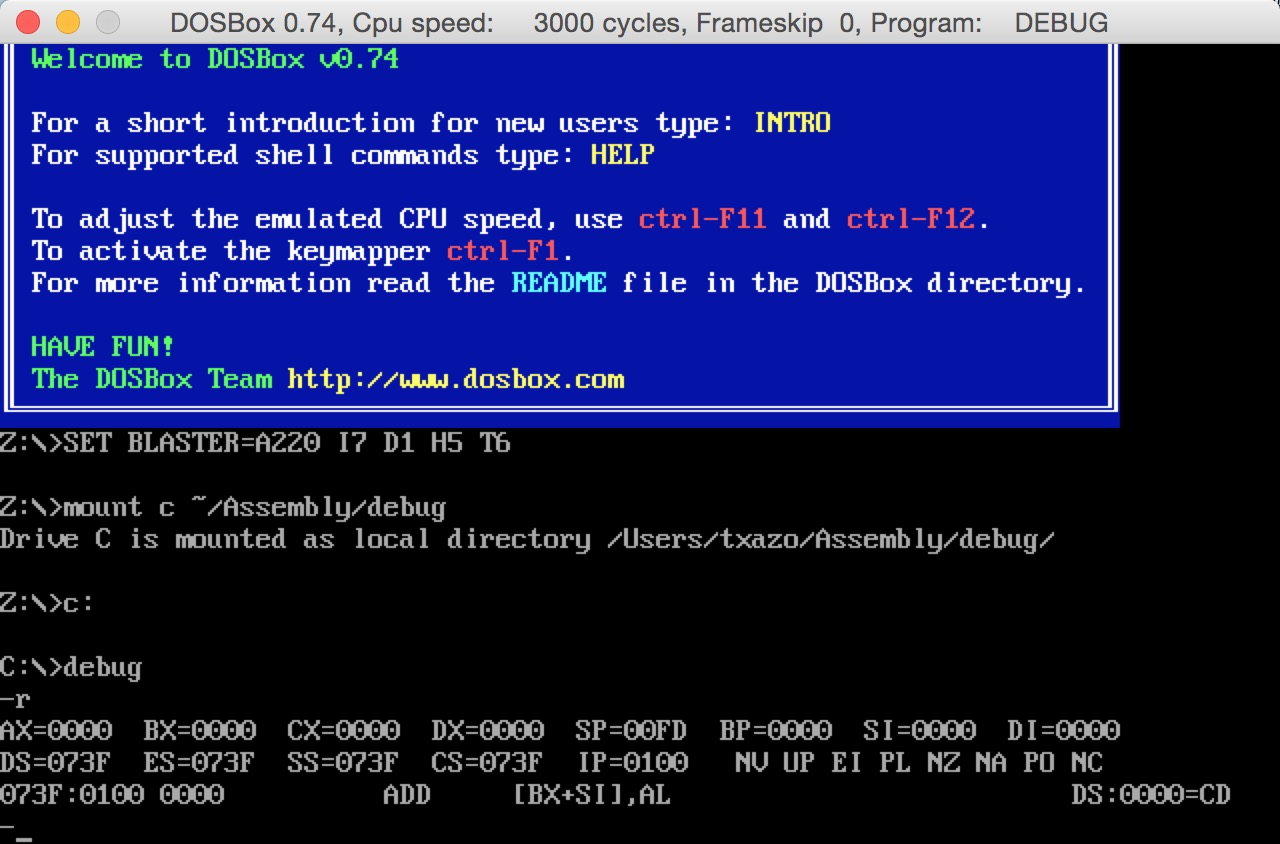
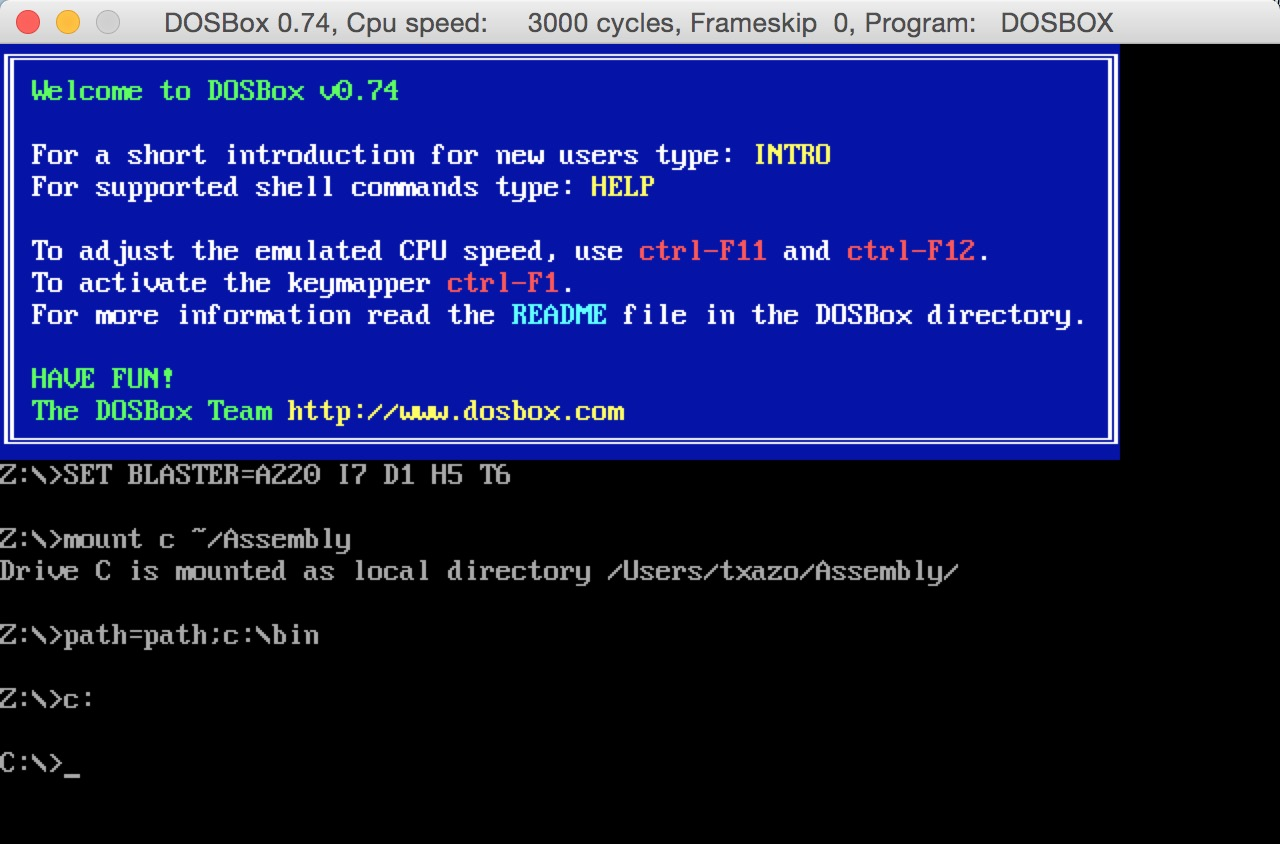
auto commit

diff --git a/js/topic.js b/js/topic.js
@@ -1,1 +1,1 @@
-var Topics = ['热点', '临时', '中间件', '项目总结', '开源框架', '性能优化', '网络', '数据库', '大数据', 'Java', 'JDK', 'HotSpot', '设计模式', '汇编', '数据结构与算法', '服务器', 'Linux', 'Mac', 'CSS', 'Ruby', 'Python', '监控', '开发工具', '品质生活'];var TopicModule = {"\u6027\u80fd\u4f18\u5316": [{"path": "/performance/async.html", "module": "\u6027\u80fd\u4f18\u5316", "title": "\u5f02\u6b65\u8c03\u4f18"}, {"path": "/performance/cache-optimization.html", "module": "\u6027\u80fd\u4f18\u5316", "title": "\u7f13\u5b58\u4f18\u5316"}, {"path": "/performance/database.html", "module": "\u6027\u80fd\u4f18\u5316", "title": "\u6570\u636e\u5e93\u8c03\u4f18"}, {"path": "/performance/reactor.html", "module": "\u6027\u80fd\u4f18\u5316", "title": "Reactor\u6a21\u5f0f"}], "\u670d\u52a1\u5668": [{"path": "/server/nginx-load-balance.html", "module": "\u670d\u52a1\u5668", "title": "Nginx\u8d1f\u8f7d\u5747\u8861"}, {"path": "/server/nginx-real-ip.html", "module": "\u670d\u52a1\u5668", "title": "Nginx\u771f\u5b9eIP"}, {"path": "/server/nginx.html", "module": "\u670d\u52a1\u5668", "title": "Nginx"}, {"path": "/server/tomcat.html", "module": "\u670d\u52a1\u5668", "title": "Tomcat"}], "Java": [{"path": "/java/annotation.html", "module": "Java", "title": "\u6ce8\u89e3"}, {"path": "/java/aop.html", "module": "Java", "title": "AOP"}, {"path": "/java/collection/list.html", "module": "Java", "title": "List"}, {"path": "/java/collection/map.html", "module": "Java", "title": "Map"}, {"path": "/java/collection/queue.html", "module": "Java", "title": "Queue"}, {"path": "/java/collection/set.html", "module": "Java", "title": "Set"}, {"path": "/java/collection.html", "module": "Java", "title": "\u96c6\u5408"}, {"path": "/java/concurrent/atomic.html", "module": "Java", "title": "\u539f\u5b50\u64cd\u4f5c"}, {"path": "/java/concurrent/future-callable.html", "module": "Java", "title": "Future/Callable"}, {"path": "/java/concurrent/thread-pool.html", "module": "Java", "title": "\u7ebf\u7a0b\u6c60"}, {"path": "/java/concurrent/volatile.html", "module": "Java", "title": "Volatile"}, {"path": "/java/concurrent.html", "module": "Java", "title": "\u5e76\u53d1\u7f16\u7a0b"}, {"path": "/java/dynamic-proxy.html", "module": "Java", "title": "\u52a8\u6001\u4ee3\u7406"}, {"path": "/java/gzip.html", "module": "Java", "title": "GZIP"}, {"path": "/java/hot-deployment.html", "module": "Java", "title": "\u70ed\u90e8\u7f72"}, {"path": "/java/io.html", "module": "Java", "title": "IO"}, {"path": "/java/java-feature.html", "module": "Java", "title": "Java\u7279\u6027"}, {"path": "/java/java-web.html", "module": "Java", "title": "Java Web"}, {"path": "/java/java.html", "module": "Java", "title": "Java"}, {"path": "/java/javac.html", "module": "Java", "title": "javac\u7f16\u8bd1\u5668"}, {"path": "/java/javaweb/cookie-session.html", "module": "Java", "title": "Cookie/Session"}, {"path": "/java/javaweb/encoding.html", "module": "Java", "title": "\u7f16\u7801"}, {"path": "/java/javaweb/filter.html", "module": "Java", "title": "Filter"}, {"path": "/java/javaweb/jsp.html", "module": "Java", "title": "JSP"}, {"path": "/java/javaweb/listener.html", "module": "Java", "title": "Listener"}, {"path": "/java/javaweb/servlet.html", "module": "Java", "title": "Servlet"}, {"path": "/java/memory-model.html", "module": "Java", "title": "Java\u5185\u5b58\u6a21\u578b"}, {"path": "/java/network.html", "module": "Java", "title": "\u7f51\u7edc\u7f16\u7a0b"}, {"path": "/java/reflection.html", "module": "Java", "title": "\u53cd\u5c04"}, {"path": "/java/sugar.html", "module": "Java", "title": "\u8bed\u6cd5\u7cd6"}, {"path": "/java/synchronized.html", "module": "Java", "title": "synchronized"}, {"path": "/java/thread/join.html", "module": "Java", "title": "Join"}, {"path": "/java/thread/sleep.html", "module": "Java", "title": "Sleep"}, {"path": "/java/thread/thread.html", "module": "Java", "title": "Thread"}, {"path": "/java/thread/threadlocal.html", "module": "Java", "title": "ThreadLocal"}, {"path": "/java/thread/wait-notify.html", "module": "Java", "title": "Wait/Notify"}, {"path": "/java/thread/yield.html", "module": "Java", "title": "Yield"}, {"path": "/java/thread.html", "module": "Java", "title": "\u591a\u7ebf\u7a0b"}], "JDK": [{"path": "/jdk/attach-api.html", "module": "JDK", "title": "Attach API"}, {"path": "/jdk/jar.html", "module": "JDK", "title": "jar"}, {"path": "/jdk/javap.html", "module": "JDK", "title": "javap"}, {"path": "/jdk/jcmd.html", "module": "JDK", "title": "jcmd"}, {"path": "/jdk/jconsole.html", "module": "JDK", "title": "jconsole"}, {"path": "/jdk/jdb.html", "module": "JDK", "title": "jdb"}, {"path": "/jdk/jhat.html", "module": "JDK", "title": "jhat"}, {"path": "/jdk/jinfo.html", "module": "JDK", "title": "jinfo"}, {"path": "/jdk/jmap.html", "module": "JDK", "title": "jmap"}, {"path": "/jdk/jmx.html", "module": "JDK", "title": "JMX"}, {"path": "/jdk/jps.html", "module": "JDK", "title": "jps"}, {"path": "/jdk/jstack.html", "module": "JDK", "title": "jstack"}, {"path": "/jdk/jstat.html", "module": "JDK", "title": "jstat"}, {"path": "/jdk/jvisualvm.html", "module": "JDK", "title": "jvisualvm"}, {"path": "/jdk/monitor-manage.html", "module": "JDK", "title": "\u76d1\u63a7\u548c\u7ba1\u7406"}], "\u9879\u76ee\u603b\u7ed3": [{"path": "/project/api-test-tool.html", "module": "\u9879\u76ee\u603b\u7ed3", "title": "\u63a5\u53e3\u6d4b\u8bd5\u5de5\u5177"}, {"path": "/project/app-mock.html", "module": "\u9879\u76ee\u603b\u7ed3", "title": "AppMock"}, {"path": "/project/channel-apk-update.html", "module": "\u9879\u76ee\u603b\u7ed3", "title": "Android\u6e20\u9053\u5305\u66f4\u65b0"}, {"path": "/project/mobile-operating-platform.html", "module": "\u9879\u76ee\u603b\u7ed3", "title": "\u79fb\u52a8\u8fd0\u8425\u5e73\u53f0"}, {"path": "/project/uni-order-center.html", "module": "\u9879\u76ee\u603b\u7ed3", "title": "\u7edf\u4e00\u8ba2\u5355\u4e2d\u5fc3"}], "\u5927\u6570\u636e": [{"path": "/bigdata/hadoop-setup.html", "module": "\u5927\u6570\u636e", "title": "Hadoop\u5b89\u88c5"}], "\u76d1\u63a7": [{"path": "/monitor/cpu.html", "module": "\u76d1\u63a7", "title": "cpu"}, {"path": "/monitor/disk-io.html", "module": "\u76d1\u63a7", "title": "\u78c1\u76d8IO"}, {"path": "/monitor/memory.html", "module": "\u76d1\u63a7", "title": "\u5185\u5b58"}, {"path": "/monitor/network-io.html", "module": "\u76d1\u63a7", "title": "\u7f51\u7edcIO"}], "\u54c1\u8d28\u751f\u6d3b": [{"path": "/life/backpack.html", "module": "\u54c1\u8d28\u751f\u6d3b", "title": "\u80cc\u5305"}, {"path": "/life/knowledge-point.html", "module": "\u54c1\u8d28\u751f\u6d3b", "title": "\u77e5\u8bc6\u70b9"}], "Python": [{"path": "/python/dict.html", "module": "Python", "title": "\u5b57\u5178"}, {"path": "/python/file.html", "module": "Python", "title": "\u6587\u4ef6"}, {"path": "/python/list.html", "module": "Python", "title": "\u5217\u8868"}, {"path": "/python/pip-module-problem.html", "module": "Python", "title": "\u6a21\u5757\u5b89\u88c5\u95ee\u9898"}, {"path": "/python/tuple.html", "module": "Python", "title": "\u5143\u7ec4"}], "\u70ed\u70b9": [{"path": "/top/document.html", "module": "\u70ed\u70b9", "title": "\u6587\u6863\u8d44\u6599"}], "HotSpot": [{"path": "/hotspot/assembly.html", "module": "HotSpot", "title": "\u6c47\u7f16"}, {"path": "/hotspot/class-load.html", "module": "HotSpot", "title": "\u7c7b\u52a0\u8f7d"}, {"path": "/hotspot/field.html", "module": "HotSpot", "title": "\u5b57\u6bb5"}, {"path": "/hotspot/hsdb.html", "module": "HotSpot", "title": "HSDB"}, {"path": "/hotspot/jdb-debug.html", "module": "HotSpot", "title": "GDB\u8c03\u8bd5"}, {"path": "/hotspot/jvm-garbage-collector.html", "module": "HotSpot", "title": "Java\u5783\u573e\u6536\u96c6\u5668"}, {"path": "/hotspot/jvm-option.html", "module": "HotSpot", "title": "VM\u9009\u9879"}, {"path": "/hotspot/memory-allocation.html", "module": "HotSpot", "title": "\u5185\u5b58\u5206\u914d"}, {"path": "/hotspot/memory-management.html", "module": "HotSpot", "title": "\u81ea\u52a8\u5185\u5b58\u7ba1\u7406"}, {"path": "/hotspot/oopklass.html", "module": "HotSpot", "title": "Oop/Klass"}, {"path": "/hotspot/program-counter.html", "module": "HotSpot", "title": "\u7a0b\u5e8f\u8ba1\u6570\u5668"}, {"path": "/hotspot/sa.html", "module": "HotSpot", "title": "SA"}], "Mac": [{"path": "/mac/common.html", "module": "Mac", "title": "\u5e38\u89c1\u95ee\u9898"}, {"path": "/mac/sudo.html", "module": "Mac", "title": "sudo\u514d\u5bc6"}, {"path": "/mac/wifi.html", "module": "Mac", "title": "Mac\u4e0b\u7834\u89e3wifi\u5bc6\u7801"}], "\u5f00\u6e90\u6846\u67b6": [{"path": "/opensourceframework/httpclient.html", "module": "\u5f00\u6e90\u6846\u67b6", "title": "HttpClient"}, {"path": "/opensourceframework/netty-server-bootstrap.html", "module": "\u5f00\u6e90\u6846\u67b6", "title": "Netty\u670d\u52a1\u7aef\u542f\u52a8"}, {"path": "/opensourceframework/netty.html", "module": "\u5f00\u6e90\u6846\u67b6", "title": "Netty"}, {"path": "/opensourceframework/spring-inject.html", "module": "\u5f00\u6e90\u6846\u67b6", "title": "Spring\u6ce8\u5165"}, {"path": "/opensourceframework/spring-redis-pub-sub.html", "module": "\u5f00\u6e90\u6846\u67b6", "title": "Spring-Redis\u53d1\u5e03\u8ba2\u9605"}, {"path": "/opensourceframework/spring-websocket.html", "module": "\u5f00\u6e90\u6846\u67b6", "title": "Spring-WebSocket"}, {"path": "/opensourceframework/spring.html", "module": "\u5f00\u6e90\u6846\u67b6", "title": "Spring"}], "\u7f51\u7edc": [{"path": "/network/arp.html", "module": "\u7f51\u7edc", "title": "ARP"}, {"path": "/network/cdn.html", "module": "\u7f51\u7edc", "title": "CDN"}, {"path": "/network/client-server.html", "module": "\u7f51\u7edc", "title": "Client/Server"}, {"path": "/network/dns.html", "module": "\u7f51\u7edc", "title": "DNS"}, {"path": "/network/http-proxy.html", "module": "\u7f51\u7edc", "title": "Http\u4ee3\u7406"}, {"path": "/network/http.html", "module": "\u7f51\u7edc", "title": "HTTP"}, {"path": "/network/https.html", "module": "\u7f51\u7edc", "title": "HTTPS"}, {"path": "/network/ip.html", "module": "\u7f51\u7edc", "title": "IP"}, {"path": "/network/push.html", "module": "\u7f51\u7edc", "title": "\u5b9e\u65f6\u63a8\u9001"}, {"path": "/network/socks-proxy.html", "module": "\u7f51\u7edc", "title": "Socks\u4ee3\u7406"}, {"path": "/network/tcp.html", "module": "\u7f51\u7edc", "title": "TCP"}, {"path": "/network/vpn.html", "module": "\u7f51\u7edc", "title": "VPN"}, {"path": "/network/vrrp.html", "module": "\u7f51\u7edc", "title": "VRRP"}, {"path": "/network/websocket.html", "module": "\u7f51\u7edc", "title": "WebSocket"}], "Ruby": [{"path": "/ruby/array.html", "module": "Ruby", "title": "\u6570\u7ec4"}, {"path": "/ruby/hash.html", "module": "Ruby", "title": "\u54c8\u5e0c"}], "\u6c47\u7f16": [{"path": "/assembly/mac-env.html", "module": "\u6c47\u7f16", "title": "Mac\u4e0b\u642d\u5efa\u6c47\u7f16\u73af\u5883"}], "\u4e34\u65f6": [{"path": "/temporary/summary.html", "module": "\u4e34\u65f6", "title": "\u603b\u7ed3"}], "\u8bbe\u8ba1\u6a21\u5f0f": [{"path": "/designpattern/chain.html", "module": "\u8bbe\u8ba1\u6a21\u5f0f", "title": "\u804c\u8d23\u94fe\u6a21\u5f0f"}], "\u6570\u636e\u7ed3\u6784\u4e0e\u7b97\u6cd5": [{"path": "/dataalgorithm/insert-sort.html", "module": "\u6570\u636e\u7ed3\u6784\u4e0e\u7b97\u6cd5", "title": "\u63d2\u5165\u6392\u5e8f"}, {"path": "/dataalgorithm/sort.html", "module": "\u6570\u636e\u7ed3\u6784\u4e0e\u7b97\u6cd5", "title": "\u6392\u5e8f"}], "CSS": [{"path": "/css/common-problem.html", "module": "CSS", "title": "\u5e38\u89c1\u95ee\u9898"}], "\u591a\u7ebf\u7a0b": [{"path": "/java/thread/interrupt.html", "module": "\u591a\u7ebf\u7a0b", "title": "\u7ebf\u7a0b\u4e2d\u65ad"}], "\u4e2d\u95f4\u4ef6": [{"path": "/middleware/configuration.html", "module": "\u4e2d\u95f4\u4ef6", "title": "\u914d\u7f6e\u4e2d\u5fc3"}, {"path": "/middleware/database-middleware.html", "module": "\u4e2d\u95f4\u4ef6", "title": "\u6570\u636e\u5e93\u4e2d\u95f4\u4ef6"}, {"path": "/middleware/kafka.html", "module": "\u4e2d\u95f4\u4ef6", "title": "Kafka"}, {"path": "/middleware/lock.html", "module": "\u4e2d\u95f4\u4ef6", "title": "\u5206\u5e03\u5f0f\u9501"}, {"path": "/middleware/logcenter.html", "module": "\u4e2d\u95f4\u4ef6", "title": "\u65e5\u5fd7\u4e2d\u5fc3"}, {"path": "/middleware/memcached.html", "module": "\u4e2d\u95f4\u4ef6", "title": "Memcached"}, {"path": "/middleware/monitor.html", "module": "\u4e2d\u95f4\u4ef6", "title": "\u76d1\u63a7\u4e2d\u5fc3"}, {"path": "/middleware/redis-string.html", "module": "\u4e2d\u95f4\u4ef6", "title": "Redis-String"}, {"path": "/middleware/redis.html", "module": "\u4e2d\u95f4\u4ef6", "title": "Redis"}, {"path": "/middleware/rpc.html", "module": "\u4e2d\u95f4\u4ef6", "title": "RPC"}, {"path": "/middleware/scheduling.html", "module": "\u4e2d\u95f4\u4ef6", "title": "\u8c03\u5ea6\u5e73\u53f0"}, {"path": "/middleware/serialization-protocol.html", "module": "\u4e2d\u95f4\u4ef6", "title": "\u5e8f\u5217\u5316\u534f\u8bae"}, {"path": "/middleware/zookeeper.html", "module": "\u4e2d\u95f4\u4ef6", "title": "Zookeeper"}], "\u5f00\u53d1\u5de5\u5177": [{"path": "/tool/draw.html", "module": "\u5f00\u53d1\u5de5\u5177", "title": "\u4f5c\u56fe"}, {"path": "/tool/git.html", "module": "\u5f00\u53d1\u5de5\u5177", "title": "Git"}, {"path": "/tool/screenshot.html", "module": "\u5f00\u53d1\u5de5\u5177", "title": "\u622a\u56fe"}, {"path": "/tool/wireshark.html", "module": "\u5f00\u53d1\u5de5\u5177", "title": "Wireshark"}], "\u6570\u636e\u5e93": [{"path": "/database/database-connection-pool.html", "module": "\u6570\u636e\u5e93", "title": "\u6570\u636e\u5e93\u8fde\u63a5\u6c60"}, {"path": "/database/database-driver.html", "module": "\u6570\u636e\u5e93", "title": "\u6570\u636e\u5e93\u9a71\u52a8"}, {"path": "/database/database-index.html", "module": "\u6570\u636e\u5e93", "title": "\u6570\u636e\u5e93\u7d22\u5f15"}, {"path": "/database/database-lock.html", "module": "\u6570\u636e\u5e93", "title": "\u6570\u636e\u5e93\u9501\u673a\u5236"}, {"path": "/database/database-optimize.html", "module": "\u6570\u636e\u5e93", "title": "\u6570\u636e\u5e93\u4f18\u5316"}, {"path": "/database/database-redundancy.html", "module": "\u6570\u636e\u5e93", "title": "\u6570\u636e\u5e93\u5197\u4f59"}, {"path": "/database/database-split.html", "module": "\u6570\u636e\u5e93", "title": "\u6570\u636e\u5e93\u62c6\u5206"}, {"path": "/database/database-transaction.html", "module": "\u6570\u636e\u5e93", "title": "\u6570\u636e\u5e93\u4e8b\u52a1"}, {"path": "/database/mvcc.html", "module": "\u6570\u636e\u5e93", "title": "MVCC"}, {"path": "/database/myisam-innodb.html", "module": "\u6570\u636e\u5e93", "title": "Myisam/Innodb\u5bf9\u6bd4"}], "Linux": [{"path": "/linux/charles.html", "module": "Linux", "title": "Charles"}, {"path": "/linux/gcc.html", "module": "Linux", "title": "GCC"}, {"path": "/linux/io-model.html", "module": "Linux", "title": "I/O\u6a21\u578b"}, {"path": "/linux/keepalived.html", "module": "Linux", "title": "Keepalived"}, {"path": "/linux/memory-mapping.html", "module": "Linux", "title": "\u5185\u5b58\u6620\u5c04"}, {"path": "/linux/socket.html", "module": "Linux", "title": "Socket"}, {"path": "/linux/tcpdump.html", "module": "Linux", "title": "tcpdump"}]};
+var Topics = ['热点', '临时', '中间件', '项目总结', '开源框架', '性能优化', '网络', '数据库', '大数据', 'Java', 'JDK', 'HotSpot', '设计模式', '汇编', '数据结构与算法', '服务器', 'Linux', 'Mac', 'CSS', 'Ruby', 'Python', '监控', '开发工具', '品质生活'];var TopicModule = {"\u6027\u80fd\u4f18\u5316": [{"path": "/performance/async.html", "module": "\u6027\u80fd\u4f18\u5316", "title": "\u5f02\u6b65\u8c03\u4f18"}, {"path": "/performance/cache-optimization.html", "module": "\u6027\u80fd\u4f18\u5316", "title": "\u7f13\u5b58\u4f18\u5316"}, {"path": "/performance/database.html", "module": "\u6027\u80fd\u4f18\u5316", "title": "\u6570\u636e\u5e93\u8c03\u4f18"}, {"path": "/performance/reactor.html", "module": "\u6027\u80fd\u4f18\u5316", "title": "Reactor\u6a21\u5f0f"}], "\u670d\u52a1\u5668": [{"path": "/server/nginx-load-balance.html", "module": "\u670d\u52a1\u5668", "title": "Nginx\u8d1f\u8f7d\u5747\u8861"}, {"path": "/server/nginx-real-ip.html", "module": "\u670d\u52a1\u5668", "title": "Nginx\u771f\u5b9eIP"}, {"path": "/server/nginx.html", "module": "\u670d\u52a1\u5668", "title": "Nginx"}, {"path": "/server/tomcat.html", "module": "\u670d\u52a1\u5668", "title": "Tomcat"}], "Java": [{"path": "/java/annotation.html", "module": "Java", "title": "\u6ce8\u89e3"}, {"path": "/java/aop.html", "module": "Java", "title": "AOP"}, {"path": "/java/collection/list.html", "module": "Java", "title": "List"}, {"path": "/java/collection/map.html", "module": "Java", "title": "Map"}, {"path": "/java/collection/queue.html", "module": "Java", "title": "Queue"}, {"path": "/java/collection/set.html", "module": "Java", "title": "Set"}, {"path": "/java/collection.html", "module": "Java", "title": "\u96c6\u5408"}, {"path": "/java/concurrent/atomic.html", "module": "Java", "title": "\u539f\u5b50\u64cd\u4f5c"}, {"path": "/java/concurrent/future-callable.html", "module": "Java", "title": "Future/Callable"}, {"path": "/java/concurrent/thread-pool.html", "module": "Java", "title": "\u7ebf\u7a0b\u6c60"}, {"path": "/java/concurrent/volatile.html", "module": "Java", "title": "Volatile"}, {"path": "/java/concurrent.html", "module": "Java", "title": "\u5e76\u53d1\u7f16\u7a0b"}, {"path": "/java/dynamic-proxy.html", "module": "Java", "title": "\u52a8\u6001\u4ee3\u7406"}, {"path": "/java/gzip.html", "module": "Java", "title": "GZIP"}, {"path": "/java/hot-deployment.html", "module": "Java", "title": "\u70ed\u90e8\u7f72"}, {"path": "/java/io.html", "module": "Java", "title": "IO"}, {"path": "/java/java-feature.html", "module": "Java", "title": "Java\u7279\u6027"}, {"path": "/java/java-web.html", "module": "Java", "title": "Java Web"}, {"path": "/java/java.html", "module": "Java", "title": "Java"}, {"path": "/java/javac.html", "module": "Java", "title": "javac\u7f16\u8bd1\u5668"}, {"path": "/java/javaweb/cookie-session.html", "module": "Java", "title": "Cookie/Session"}, {"path": "/java/javaweb/encoding.html", "module": "Java", "title": "\u7f16\u7801"}, {"path": "/java/javaweb/filter.html", "module": "Java", "title": "Filter"}, {"path": "/java/javaweb/jsp.html", "module": "Java", "title": "JSP"}, {"path": "/java/javaweb/listener.html", "module": "Java", "title": "Listener"}, {"path": "/java/javaweb/servlet.html", "module": "Java", "title": "Servlet"}, {"path": "/java/memory-model.html", "module": "Java", "title": "Java\u5185\u5b58\u6a21\u578b"}, {"path": "/java/network.html", "module": "Java", "title": "\u7f51\u7edc\u7f16\u7a0b"}, {"path": "/java/reflection.html", "module": "Java", "title": "\u53cd\u5c04"}, {"path": "/java/sugar.html", "module": "Java", "title": "\u8bed\u6cd5\u7cd6"}, {"path": "/java/synchronized.html", "module": "Java", "title": "synchronized"}, {"path": "/java/thread/join.html", "module": "Java", "title": "Join"}, {"path": "/java/thread/sleep.html", "module": "Java", "title": "Sleep"}, {"path": "/java/thread/thread.html", "module": "Java", "title": "Thread"}, {"path": "/java/thread/threadlocal.html", "module": "Java", "title": "ThreadLocal"}, {"path": "/java/thread/wait-notify.html", "module": "Java", "title": "Wait/Notify"}, {"path": "/java/thread/yield.html", "module": "Java", "title": "Yield"}, {"path": "/java/thread.html", "module": "Java", "title": "\u591a\u7ebf\u7a0b"}], "JDK": [{"path": "/jdk/attach-api.html", "module": "JDK", "title": "Attach API"}, {"path": "/jdk/jar.html", "module": "JDK", "title": "jar"}, {"path": "/jdk/javap.html", "module": "JDK", "title": "javap"}, {"path": "/jdk/jcmd.html", "module": "JDK", "title": "jcmd"}, {"path": "/jdk/jconsole.html", "module": "JDK", "title": "jconsole"}, {"path": "/jdk/jdb.html", "module": "JDK", "title": "jdb"}, {"path": "/jdk/jhat.html", "module": "JDK", "title": "jhat"}, {"path": "/jdk/jinfo.html", "module": "JDK", "title": "jinfo"}, {"path": "/jdk/jmap.html", "module": "JDK", "title": "jmap"}, {"path": "/jdk/jmx.html", "module": "JDK", "title": "JMX"}, {"path": "/jdk/jps.html", "module": "JDK", "title": "jps"}, {"path": "/jdk/jstack.html", "module": "JDK", "title": "jstack"}, {"path": "/jdk/jstat.html", "module": "JDK", "title": "jstat"}, {"path": "/jdk/jvisualvm.html", "module": "JDK", "title": "jvisualvm"}, {"path": "/jdk/monitor-manage.html", "module": "JDK", "title": "\u76d1\u63a7\u548c\u7ba1\u7406"}], "\u9879\u76ee\u603b\u7ed3": [{"path": "/project/api-test-tool.html", "module": "\u9879\u76ee\u603b\u7ed3", "title": "\u63a5\u53e3\u6d4b\u8bd5\u5de5\u5177"}, {"path": "/project/app-mock.html", "module": "\u9879\u76ee\u603b\u7ed3", "title": "AppMock"}, {"path": "/project/channel-apk-update.html", "module": "\u9879\u76ee\u603b\u7ed3", "title": "Android\u6e20\u9053\u5305\u66f4\u65b0"}, {"path": "/project/mobile-operating-platform.html", "module": "\u9879\u76ee\u603b\u7ed3", "title": "\u79fb\u52a8\u8fd0\u8425\u5e73\u53f0"}, {"path": "/project/uni-order-center.html", "module": "\u9879\u76ee\u603b\u7ed3", "title": "\u7edf\u4e00\u8ba2\u5355\u4e2d\u5fc3"}], "\u5927\u6570\u636e": [{"path": "/bigdata/hadoop-setup.html", "module": "\u5927\u6570\u636e", "title": "Hadoop\u5b89\u88c5"}], "\u76d1\u63a7": [{"path": "/monitor/cpu.html", "module": "\u76d1\u63a7", "title": "cpu"}, {"path": "/monitor/disk-io.html", "module": "\u76d1\u63a7", "title": "\u78c1\u76d8IO"}, {"path": "/monitor/memory.html", "module": "\u76d1\u63a7", "title": "\u5185\u5b58"}, {"path": "/monitor/network-io.html", "module": "\u76d1\u63a7", "title": "\u7f51\u7edcIO"}], "\u54c1\u8d28\u751f\u6d3b": [{"path": "/life/backpack.html", "module": "\u54c1\u8d28\u751f\u6d3b", "title": "\u80cc\u5305"}, {"path": "/life/knowledge-point.html", "module": "\u54c1\u8d28\u751f\u6d3b", "title": "\u77e5\u8bc6\u70b9"}], "Python": [{"path": "/python/dict.html", "module": "Python", "title": "\u5b57\u5178"}, {"path": "/python/file.html", "module": "Python", "title": "\u6587\u4ef6"}, {"path": "/python/list.html", "module": "Python", "title": "\u5217\u8868"}, {"path": "/python/pip-module-problem.html", "module": "Python", "title": "\u6a21\u5757\u5b89\u88c5\u95ee\u9898"}, {"path": "/python/tuple.html", "module": "Python", "title": "\u5143\u7ec4"}], "\u70ed\u70b9": [{"path": "/top/document.html", "module": "\u70ed\u70b9", "title": "\u6587\u6863\u8d44\u6599"}], "HotSpot": [{"path": "/hotspot/assembly.html", "module": "HotSpot", "title": "\u6c47\u7f16"}, {"path": "/hotspot/class-load.html", "module": "HotSpot", "title": "\u7c7b\u52a0\u8f7d"}, {"path": "/hotspot/field.html", "module": "HotSpot", "title": "\u5b57\u6bb5"}, {"path": "/hotspot/hsdb.html", "module": "HotSpot", "title": "HSDB"}, {"path": "/hotspot/jdb-debug.html", "module": "HotSpot", "title": "GDB\u8c03\u8bd5"}, {"path": "/hotspot/jvm-garbage-collector.html", "module": "HotSpot", "title": "Java\u5783\u573e\u6536\u96c6\u5668"}, {"path": "/hotspot/jvm-option.html", "module": "HotSpot", "title": "VM\u9009\u9879"}, {"path": "/hotspot/memory-allocation.html", "module": "HotSpot", "title": "\u5185\u5b58\u5206\u914d"}, {"path": "/hotspot/memory-management.html", "module": "HotSpot", "title": "\u81ea\u52a8\u5185\u5b58\u7ba1\u7406"}, {"path": "/hotspot/oopklass.html", "module": "HotSpot", "title": "Oop/Klass"}, {"path": "/hotspot/program-counter.html", "module": "HotSpot", "title": "\u7a0b\u5e8f\u8ba1\u6570\u5668"}, {"path": "/hotspot/sa.html", "module": "HotSpot", "title": "SA"}], "Mac": [{"path": "/mac/common.html", "module": "Mac", "title": "\u5e38\u89c1\u95ee\u9898"}, {"path": "/mac/sudo.html", "module": "Mac", "title": "sudo\u514d\u5bc6"}, {"path": "/mac/wifi.html", "module": "Mac", "title": "Mac\u4e0b\u7834\u89e3wifi\u5bc6\u7801"}], "\u5f00\u6e90\u6846\u67b6": [{"path": "/opensourceframework/httpclient.html", "module": "\u5f00\u6e90\u6846\u67b6", "title": "HttpClient"}, {"path": "/opensourceframework/netty-server-bootstrap.html", "module": "\u5f00\u6e90\u6846\u67b6", "title": "Netty\u670d\u52a1\u7aef\u542f\u52a8"}, {"path": "/opensourceframework/netty.html", "module": "\u5f00\u6e90\u6846\u67b6", "title": "Netty"}, {"path": "/opensourceframework/spring-inject.html", "module": "\u5f00\u6e90\u6846\u67b6", "title": "Spring\u6ce8\u5165"}, {"path": "/opensourceframework/spring-redis-pub-sub.html", "module": "\u5f00\u6e90\u6846\u67b6", "title": "Spring-Redis\u53d1\u5e03\u8ba2\u9605"}, {"path": "/opensourceframework/spring-websocket.html", "module": "\u5f00\u6e90\u6846\u67b6", "title": "Spring-WebSocket"}, {"path": "/opensourceframework/spring.html", "module": "\u5f00\u6e90\u6846\u67b6", "title": "Spring"}], "\u7f51\u7edc": [{"path": "/network/arp.html", "module": "\u7f51\u7edc", "title": "ARP"}, {"path": "/network/cdn.html", "module": "\u7f51\u7edc", "title": "CDN"}, {"path": "/network/client-server.html", "module": "\u7f51\u7edc", "title": "Client/Server"}, {"path": "/network/dns.html", "module": "\u7f51\u7edc", "title": "DNS"}, {"path": "/network/http-proxy.html", "module": "\u7f51\u7edc", "title": "Http\u4ee3\u7406"}, {"path": "/network/http.html", "module": "\u7f51\u7edc", "title": "HTTP"}, {"path": "/network/https.html", "module": "\u7f51\u7edc", "title": "HTTPS"}, {"path": "/network/ip.html", "module": "\u7f51\u7edc", "title": "IP"}, {"path": "/network/push.html", "module": "\u7f51\u7edc", "title": "\u5b9e\u65f6\u63a8\u9001"}, {"path": "/network/socks-proxy.html", "module": "\u7f51\u7edc", "title": "Socks\u4ee3\u7406"}, {"path": "/network/tcp.html", "module": "\u7f51\u7edc", "title": "TCP"}, {"path": "/network/vpn.html", "module": "\u7f51\u7edc", "title": "VPN"}, {"path": "/network/vrrp.html", "module": "\u7f51\u7edc", "title": "VRRP"}, {"path": "/network/websocket.html", "module": "\u7f51\u7edc", "title": "WebSocket"}], "Ruby": [{"path": "/ruby/array.html", "module": "Ruby", "title": "\u6570\u7ec4"}, {"path": "/ruby/hash.html", "module": "Ruby", "title": "\u54c8\u5e0c"}], "\u6c47\u7f16": [{"path": "/assembly/mac-env.html", "module": "\u6c47\u7f16", "title": "Mac\u4e0b\u642d\u5efa\u6c47\u7f16\u5f00\u53d1\u73af\u5883"}], "\u4e34\u65f6": [{"path": "/temporary/summary.html", "module": "\u4e34\u65f6", "title": "\u603b\u7ed3"}], "\u8bbe\u8ba1\u6a21\u5f0f": [{"path": "/designpattern/chain.html", "module": "\u8bbe\u8ba1\u6a21\u5f0f", "title": "\u804c\u8d23\u94fe\u6a21\u5f0f"}], "\u6570\u636e\u7ed3\u6784\u4e0e\u7b97\u6cd5": [{"path": "/dataalgorithm/insert-sort.html", "module": "\u6570\u636e\u7ed3\u6784\u4e0e\u7b97\u6cd5", "title": "\u63d2\u5165\u6392\u5e8f"}, {"path": "/dataalgorithm/sort.html", "module": "\u6570\u636e\u7ed3\u6784\u4e0e\u7b97\u6cd5", "title": "\u6392\u5e8f"}], "CSS": [{"path": "/css/common-problem.html", "module": "CSS", "title": "\u5e38\u89c1\u95ee\u9898"}], "\u591a\u7ebf\u7a0b": [{"path": "/java/thread/interrupt.html", "module": "\u591a\u7ebf\u7a0b", "title": "\u7ebf\u7a0b\u4e2d\u65ad"}], "\u4e2d\u95f4\u4ef6": [{"path": "/middleware/configuration.html", "module": "\u4e2d\u95f4\u4ef6", "title": "\u914d\u7f6e\u4e2d\u5fc3"}, {"path": "/middleware/database-middleware.html", "module": "\u4e2d\u95f4\u4ef6", "title": "\u6570\u636e\u5e93\u4e2d\u95f4\u4ef6"}, {"path": "/middleware/kafka.html", "module": "\u4e2d\u95f4\u4ef6", "title": "Kafka"}, {"path": "/middleware/lock.html", "module": "\u4e2d\u95f4\u4ef6", "title": "\u5206\u5e03\u5f0f\u9501"}, {"path": "/middleware/logcenter.html", "module": "\u4e2d\u95f4\u4ef6", "title": "\u65e5\u5fd7\u4e2d\u5fc3"}, {"path": "/middleware/memcached.html", "module": "\u4e2d\u95f4\u4ef6", "title": "Memcached"}, {"path": "/middleware/monitor.html", "module": "\u4e2d\u95f4\u4ef6", "title": "\u76d1\u63a7\u4e2d\u5fc3"}, {"path": "/middleware/redis-string.html", "module": "\u4e2d\u95f4\u4ef6", "title": "Redis-String"}, {"path": "/middleware/redis.html", "module": "\u4e2d\u95f4\u4ef6", "title": "Redis"}, {"path": "/middleware/rpc.html", "module": "\u4e2d\u95f4\u4ef6", "title": "RPC"}, {"path": "/middleware/scheduling.html", "module": "\u4e2d\u95f4\u4ef6", "title": "\u8c03\u5ea6\u5e73\u53f0"}, {"path": "/middleware/serialization-protocol.html", "module": "\u4e2d\u95f4\u4ef6", "title": "\u5e8f\u5217\u5316\u534f\u8bae"}, {"path": "/middleware/zookeeper.html", "module": "\u4e2d\u95f4\u4ef6", "title": "Zookeeper"}], "\u5f00\u53d1\u5de5\u5177": [{"path": "/tool/draw.html", "module": "\u5f00\u53d1\u5de5\u5177", "title": "\u4f5c\u56fe"}, {"path": "/tool/git.html", "module": "\u5f00\u53d1\u5de5\u5177", "title": "Git"}, {"path": "/tool/screenshot.html", "module": "\u5f00\u53d1\u5de5\u5177", "title": "\u622a\u56fe"}, {"path": "/tool/wireshark.html", "module": "\u5f00\u53d1\u5de5\u5177", "title": "Wireshark"}], "\u6570\u636e\u5e93": [{"path": "/database/database-connection-pool.html", "module": "\u6570\u636e\u5e93", "title": "\u6570\u636e\u5e93\u8fde\u63a5\u6c60"}, {"path": "/database/database-driver.html", "module": "\u6570\u636e\u5e93", "title": "\u6570\u636e\u5e93\u9a71\u52a8"}, {"path": "/database/database-index.html", "module": "\u6570\u636e\u5e93", "title": "\u6570\u636e\u5e93\u7d22\u5f15"}, {"path": "/database/database-lock.html", "module": "\u6570\u636e\u5e93", "title": "\u6570\u636e\u5e93\u9501\u673a\u5236"}, {"path": "/database/database-optimize.html", "module": "\u6570\u636e\u5e93", "title": "\u6570\u636e\u5e93\u4f18\u5316"}, {"path": "/database/database-redundancy.html", "module": "\u6570\u636e\u5e93", "title": "\u6570\u636e\u5e93\u5197\u4f59"}, {"path": "/database/database-split.html", "module": "\u6570\u636e\u5e93", "title": "\u6570\u636e\u5e93\u62c6\u5206"}, {"path": "/database/database-transaction.html", "module": "\u6570\u636e\u5e93", "title": "\u6570\u636e\u5e93\u4e8b\u52a1"}, {"path": "/database/mvcc.html", "module": "\u6570\u636e\u5e93", "title": "MVCC"}, {"path": "/database/myisam-innodb.html", "module": "\u6570\u636e\u5e93", "title": "Myisam/Innodb\u5bf9\u6bd4"}], "Linux": [{"path": "/linux/charles.html", "module": "Linux", "title": "Charles"}, {"path": "/linux/gcc.html", "module": "Linux", "title": "GCC"}, {"path": "/linux/io-model.html", "module": "Linux", "title": "I/O\u6a21\u578b"}, {"path": "/linux/keepalived.html", "module": "Linux", "title": "Keepalived"}, {"path": "/linux/memory-mapping.html", "module": "Linux", "title": "\u5185\u5b58\u6620\u5c04"}, {"path": "/linux/socket.html", "module": "Linux", "title": "Socket"}, {"path": "/linux/tcpdump.html", "module": "Linux", "title": "tcpdump"}]};

diff --git a/_posts/publish/2017-04-05-mac-env.md b/_posts/publish/2017-04-05-mac-env.md
@@ -2,31 +2,38 @@
 layout:     article
 categories: [publish]
 module:     汇编
-title:      Mac下搭建汇编环境
+title:      Mac下搭建汇编开发环境
 tags:       ['mac', 'dosbox', '汇编']
 date:       2017-04-05
 ---
 
 #### 下载安装DOSBox
 
-在 [DOSBox](http://www.dosbox.com/) 上下载DOSBox的安装包，在`应用程序`中创建dosbox文件夹，打开安装包，将安装包中的内容复制到dosbox目录下
+在 [DOSBox](http://www.dosbox.com/) 上下载DOSBox的安装包，在`应用程序`中创建`dosbox`文件夹，打开安装包，将安装包中的内容复制到`dosbox`目录下
 
-#### 下载DEBUG.EXE
+#### 下载LINK.EXE、MASM.EXE、DEBUG.EXE
 
-下载DEBUG.EXE，在当前用户目录下创建文件`~/Assembly/debug`，将下载的DEBUG.EXE复制到`~/Assembly/debug`里面
+在当前用户目录下创建文件`~/Assembly/bin`，下载LINK.EXE、MASM.EXE、DEBUG.EXE并复制到`~/Assembly/bin`里面
 
 #### 配置DOSBox
 
-打开DOSBox，执行命令`config -writeconfig dosbox.conf`，在DOSBox目录下会创建`dosbox.conf`配置文件
+打开DOSBox，执行命令`config -writeconfig dosbox.conf`，在`dosbox`目录下会创建`dosbox.conf`配置文件
 
 修改`dosbox.conf`配置文件
 
 ```conf
 [autoexec]
-mount c ~/Assembly/debug
+mount c ~/Assembly
+path=path;c:\bin
 c:
 ```
 
-#### DOSBox运行效果
+#### 运行DOSBox
 
-<img src="/images/topic/assembly/dosbox.png" alt="DOSBox" width="480" style="padding: 3px">
+![DOSBox](/images/topic/assembly/dosbox.png =480x)
+
+#### 汇编编辑器
+
+下载`Sublime Text 3`，安装插件`FASM x86`
+
+![Sublime Text 3](/images/topic/assembly/sublime.png =480x)

diff --git a/topic/assembly/mac-env.md b/topic/assembly/mac-env.md
@@ -1,31 +1,38 @@
 ---
 layout: topic
 module: 汇编
-title:  Mac下搭建汇编环境
+title:  Mac下搭建汇编开发环境
 tags:   ['mac', 'dosbox', '汇编']
 date:   2017-04-05
 ---
 
 #### 下载安装DOSBox
 
-在 [DOSBox](http://www.dosbox.com/) 上下载DOSBox的安装包，在`应用程序`中创建dosbox文件夹，打开安装包，将安装包中的内容复制到dosbox目录下
+在 [DOSBox](http://www.dosbox.com/) 上下载DOSBox的安装包，在`应用程序`中创建`dosbox`文件夹，打开安装包，将安装包中的内容复制到`dosbox`目录下
 
-#### 下载DEBUG.EXE
+#### 下载LINK.EXE、MASM.EXE、DEBUG.EXE
 
-下载DEBUG.EXE，在当前用户目录下创建文件`~/Assembly/debug`，将下载的DEBUG.EXE复制到`~/Assembly/debug`里面
+在当前用户目录下创建文件`~/Assembly/bin`，下载LINK.EXE、MASM.EXE、DEBUG.EXE并复制到`~/Assembly/bin`里面
 
 #### 配置DOSBox
 
-打开DOSBox，执行命令`config -writeconfig dosbox.conf`，在DOSBox目录下会创建`dosbox.conf`配置文件
+打开DOSBox，执行命令`config -writeconfig dosbox.conf`，在`dosbox`目录下会创建`dosbox.conf`配置文件
 
 修改`dosbox.conf`配置文件
 
 ```conf
 [autoexec]
-mount c ~/Assembly/debug
+mount c ~/Assembly
+path=path;c:\bin
 c:
 ```
 
-#### DOSBox运行效果
+#### 运行DOSBox
 
-<img src="/images/topic/assembly/dosbox.png" alt="DOSBox" width="480" style="padding: 3px">
+![DOSBox](/images/topic/assembly/dosbox.png =480x)
+
+#### 汇编编辑器
+
+下载`Sublime Text 3`，安装插件`FASM x86`
+
+![Sublime Text 3](/images/topic/assembly/sublime.png =480x)
